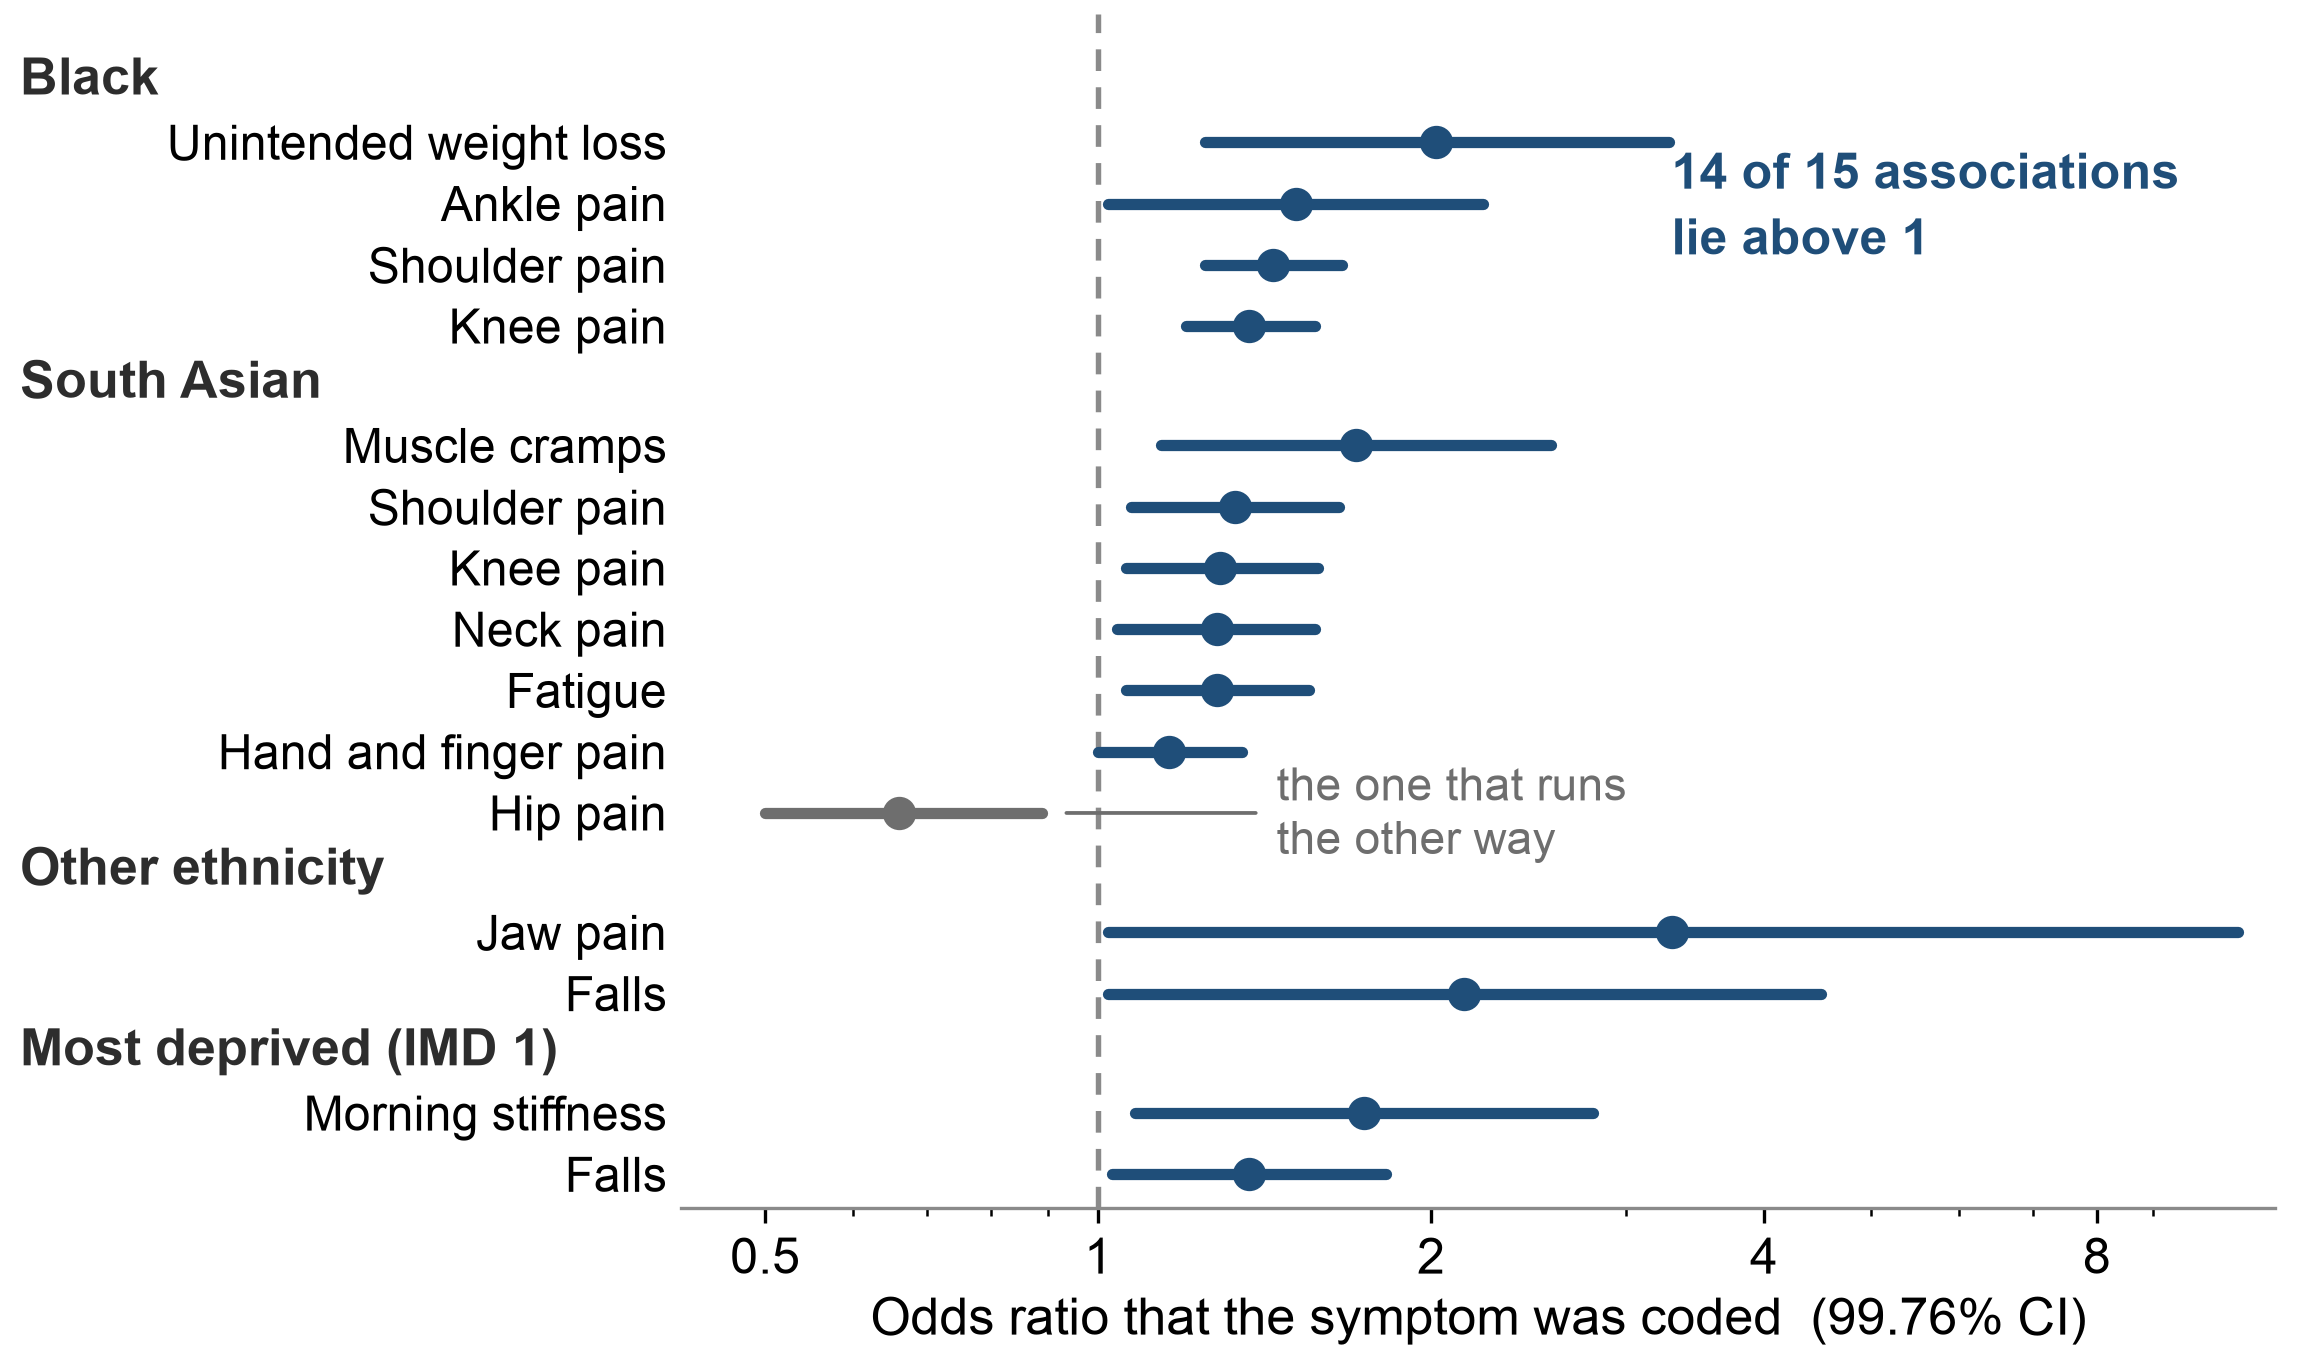
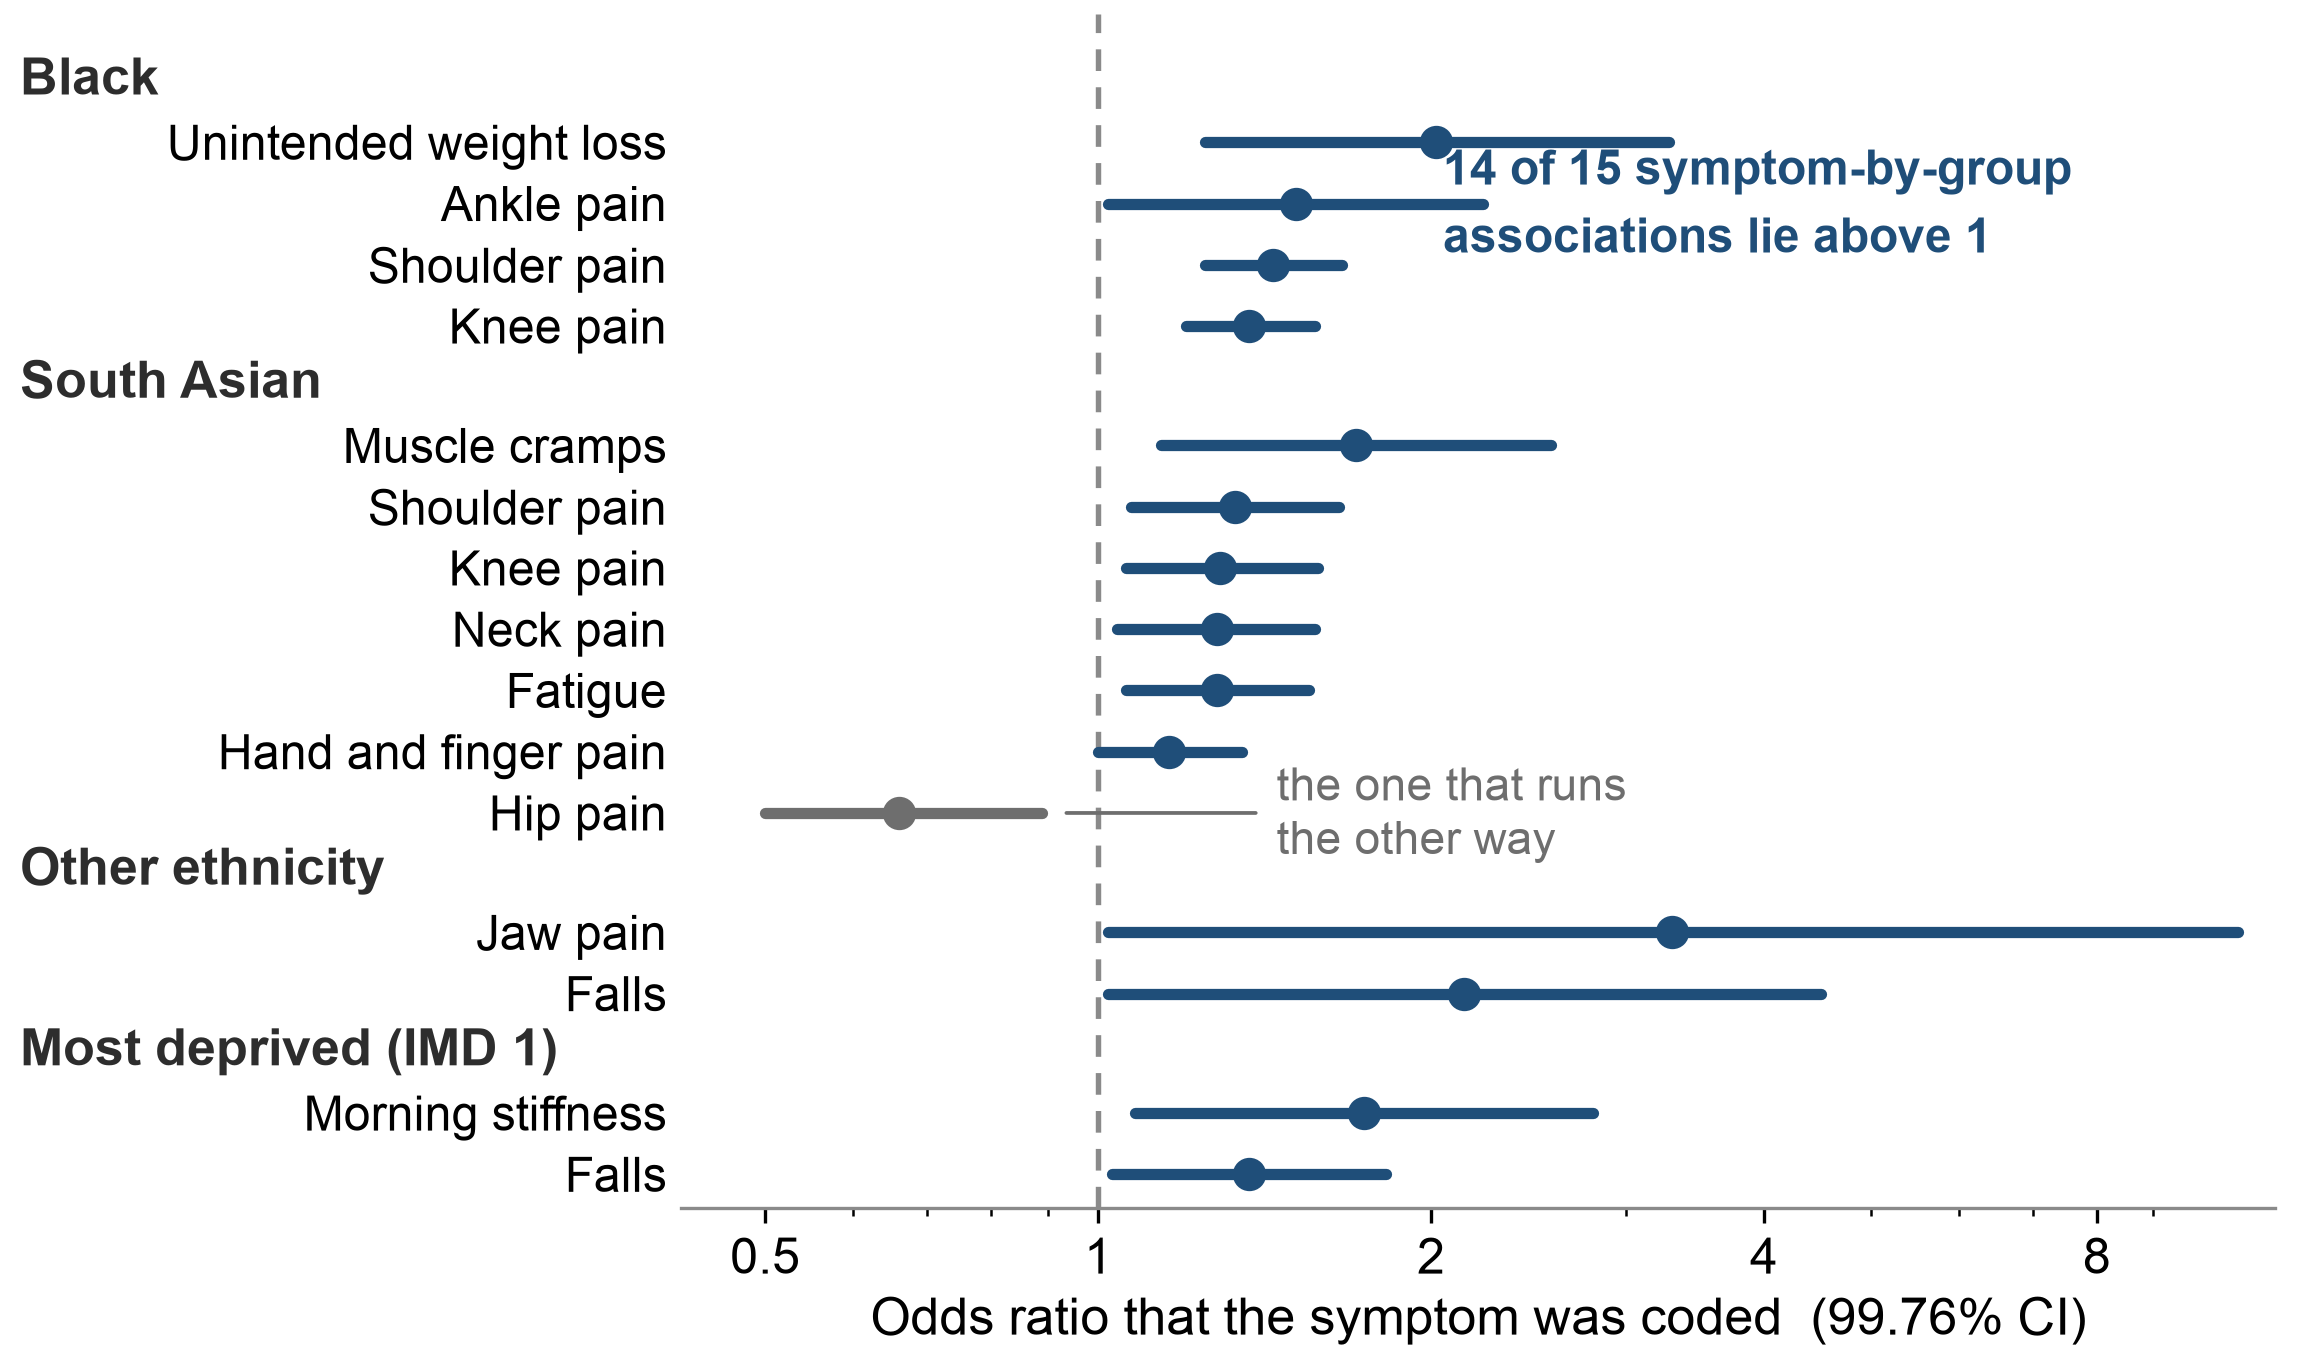
Label the forest plot unit explicitly; verify all values against source PDFs
The forest plot said '14 of 15 associations'. The paper reports significant
differences for twelve SYMPTOMS; 15 is the count of symptom-by-group pairs,
because three symptoms are significant in more than one group. The label and
the docstring now say symptom-by-group association, so the two counts can be
reconciled by a reader who checks.

Verification pass over every value used, against the source PDFs rather than
abstracts: d'Elia's results text and Table 3 both give muscle cramps as
1.71 (1.14-2.57) and falls as 1.37 (1.03-1.82), and attribute shoulder pain
1.33 to South Asian and 1.44 to Black ethnicity. Only the abstract differs.
Cohort 70,115 confirmed. Yu 2026 sensitivity 73.2 vs 68.8 per cent confirmed.
Nicholson 2019 directions confirmed: more deprived recorded more often, white
ethnic group recorded less often.

Changed region(s): [[0.6234, 0.0923, 0.9351, 0.1846]]

diff --git a/code/figures.py b/code/figures.py
@@ -65,7 +65,12 @@ def read_rows(name):
 
 
 def forest():
-    """d'Elia Table 3: odds that a symptom was coded, by patient group."""
+    """d'Elia Table 3: odds that a symptom was coded, by patient group.
+
+    The paper reports significant differences for twelve symptoms. This shows 15
+    rows because three symptoms are significant in more than one patient group,
+    so the unit here is the symptom-by-group association, not the symptom.
+    """
     raw = read_rows("delia2025_table3.csv")
     grouped = {g: [r for r in raw if r["group"] == g] for g in GROUP_ORDER}
     n_total = len(raw)
@@ -113,8 +118,8 @@ def forest():
     ax.annotate("the one that runs\nthe other way", xy=(0.92, hip), xytext=(1.45, hip),
                 fontsize=11, color=GREY, va="center", ha="left", linespacing=1.35,
                 arrowprops=dict(arrowstyle="-", color=GREY, lw=0.9, shrinkA=3, shrinkB=2))
-    ax.text(3.30, ticks[1], f"{n_above} of {n_total} associations\nlie above 1",
-            fontsize=12, color=NAVY, fontweight="bold", ha="left", va="center",
+    ax.text(2.05, ticks[1], f"{n_above} of {n_total} symptom-by-group\nassociations lie above 1",
+            fontsize=11.5, color=NAVY, fontweight="bold", ha="left", va="center",
             linespacing=1.40)
 
     fig.subplots_adjust(left=0.295, right=0.985, top=0.99, bottom=0.115)

diff --git a/verification/check_sources.py b/verification/check_sources.py
@@ -67,7 +67,7 @@ def check_table3():
 
 
 def check_abstract():
-    print("\nB. The same three associations as printed in the paper's ABSTRACT")
+    print("\nB. The same associations as printed in the paper's ABSTRACT")
     for symptom, group, point, lo, hi in ABSTRACT_AS_PRINTED:
         ok, centre = log_centred(point, lo, hi)
         if hi < lo:
@@ -140,8 +140,8 @@ def check_symptom_overlap():
     bands = list(csv.DictReader(open(DATA / "barclay2024_measured_bands.csv", newline="")))
     fatigue_max = max(float(r["band_thickness_pc_at_oldest_age"])
                       for r in bands if r["panel"] == "Fatigue")
-    print(f"   Fatigue is in both lists, and its largest single-site risk is {fatigue_max:.2f}% "
-          f"\u2014 {'below' if fatigue_max < NICE_THRESHOLD else 'above'} the {NICE_THRESHOLD}% threshold.")
+    print(f"   Fatigue is in both lists, and its largest single-site risk is {fatigue_max:.2f}%, "
+          f"{'below' if fatigue_max < NICE_THRESHOLD else 'above'} the {NICE_THRESHOLD}% threshold.")
     print("   So the symptoms whose coding differs by group are also the ones that sit")
     print("   furthest from the threshold at which referral is decided.")
 
